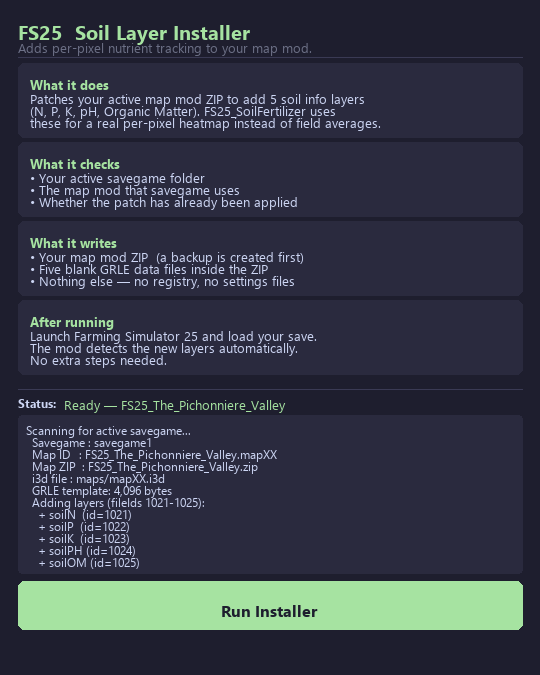
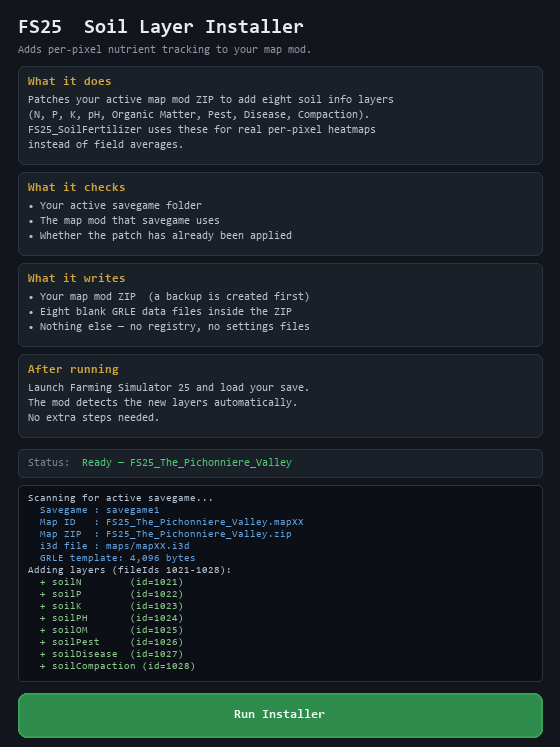
docs: update screenshot and README for 8-layer support
- Regenerate screenshot showing all 8 layers (added Pest, Disease, Compaction)
- Update layer table and all "five" references to "eight"
- Bump required SoilFertilizer version to v2.3.0+
- Update Supported Maps section: remove maps/data/ requirement, document fallback

diff --git a/gen_screenshot.py b/gen_screenshot.py
@@ -1,0 +1,149 @@
+"""Generate screenshot.png for FS25_SoilLayerInstaller README."""
+from PIL import Image, ImageDraw, ImageFont
+import os
+
+# ── Palette ───────────────────────────────────────────────────────────────────
+BG         = (18,  22,  28)
+PANEL_BG   = (26,  32,  40)
+BORDER     = (44,  52,  64)
+TITLE_CLR  = (230, 235, 245)
+SUB_CLR    = (140, 150, 165)
+HEAD_CLR   = (210, 165,  60)   # amber
+TEXT_CLR   = (185, 195, 210)
+STATUS_OK  = (80,  200, 120)
+STATUS_LBL = (120, 130, 145)
+LOG_CLR    = (140, 200, 140)
+LOG_KEY    = (100, 160, 220)
+BTN_BG     = (45,  140,  75)
+BTN_HOV    = (55,  160,  85)
+BTN_TXT    = (240, 250, 240)
+CONSOLE_BG = (12,  16,  22)
+
+W, H = 560, 780
+
+img  = Image.new("RGB", (W, H), BG)
+draw = ImageDraw.Draw(img)
+
+# ── Fonts ─────────────────────────────────────────────────────────────────────
+def font(size, bold=False):
+    candidates = [
+        "C:/Windows/Fonts/consola.ttf",
+        "C:/Windows/Fonts/cour.ttf",
+        "C:/Windows/Fonts/arial.ttf",
+    ]
+    if bold:
+        candidates = [
+            "C:/Windows/Fonts/consolab.ttf",
+            "C:/Windows/Fonts/courbd.ttf",
+            "C:/Windows/Fonts/arialbd.ttf",
+        ] + candidates
+    for p in candidates:
+        if os.path.exists(p):
+            try:
+                return ImageFont.truetype(p, size)
+            except Exception:
+                pass
+    return ImageFont.load_default()
+
+F_TITLE  = font(20, bold=True)
+F_SUB    = font(11)
+F_HEAD   = font(12, bold=True)
+F_BODY   = font(11)
+F_LOG    = font(10)
+F_BTN    = font(13, bold=True)
+F_STATUS = font(11)
+
+# ── Helpers ───────────────────────────────────────────────────────────────────
+def rrect(draw, xy, radius=6, fill=PANEL_BG, outline=BORDER, width=1):
+    x1, y1, x2, y2 = xy
+    draw.rounded_rectangle([x1, y1, x2, y2], radius=radius, fill=fill, outline=outline, width=width)
+
+def text(draw, pos, s, font, fill, anchor="la"):
+    draw.text(pos, s, font=font, fill=fill, anchor=anchor)
+
+# ── Title bar ─────────────────────────────────────────────────────────────────
+PAD = 18
+y = 18
+text(draw, (PAD, y),      "FS25  Soil Layer Installer", F_TITLE, TITLE_CLR)
+y += 26
+text(draw, (PAD, y),      "Adds per-pixel nutrient tracking to your map mod.", F_SUB, SUB_CLR)
+y += 22
+
+# ── Info panels ───────────────────────────────────────────────────────────────
+panels = [
+    ("What it does", [
+        "Patches your active map mod ZIP to add eight soil info layers",
+        "(N, P, K, pH, Organic Matter, Pest, Disease, Compaction).",
+        "FS25_SoilFertilizer uses these for real per-pixel heatmaps",
+        "instead of field averages.",
+    ]),
+    ("What it checks", [
+        "• Your active savegame folder",
+        "• The map mod that savegame uses",
+        "• Whether the patch has already been applied",
+    ]),
+    ("What it writes", [
+        "• Your map mod ZIP  (a backup is created first)",
+        "• Eight blank GRLE data files inside the ZIP",
+        "• Nothing else — no registry, no settings files",
+    ]),
+    ("After running", [
+        "Launch Farming Simulator 25 and load your save.",
+        "The mod detects the new layers automatically.",
+        "No extra steps needed.",
+    ]),
+]
+
+for head, lines in panels:
+    line_h = 15
+    ph = 14 + 18 + len(lines) * line_h + 6
+    rrect(draw, (PAD, y, W - PAD, y + ph))
+    text(draw, (PAD + 10, y + 10), head, F_HEAD, HEAD_CLR)
+    for i, ln in enumerate(lines):
+        text(draw, (PAD + 10, y + 28 + i * line_h), ln, F_BODY, TEXT_CLR)
+    y += ph + 8
+
+y += 4
+
+# ── Status bar ────────────────────────────────────────────────────────────────
+rrect(draw, (PAD, y, W - PAD, y + 28), radius=5, fill=PANEL_BG, outline=BORDER)
+text(draw, (PAD + 10, y + 8), "Status:", F_STATUS, STATUS_LBL)
+text(draw, (PAD + 64, y + 8), "Ready — FS25_The_Pichonniere_Valley", F_STATUS, STATUS_OK)
+y += 36
+
+# ── Console log ───────────────────────────────────────────────────────────────
+log_lines = [
+    ("plain", "Scanning for active savegame..."),
+    ("key",   "  Savegame : savegame1"),
+    ("key",   "  Map ID   : FS25_The_Pichonniere_Valley.mapXX"),
+    ("key",   "  Map ZIP  : FS25_The_Pichonniere_Valley.zip"),
+    ("key",   "  i3d file : maps/mapXX.i3d"),
+    ("key",   "  GRLE template: 4,096 bytes"),
+    ("plain", "Adding layers (fileIds 1021-1028):"),
+    ("ok",    "  + soilN        (id=1021)"),
+    ("ok",    "  + soilP        (id=1022)"),
+    ("ok",    "  + soilK        (id=1023)"),
+    ("ok",    "  + soilPH       (id=1024)"),
+    ("ok",    "  + soilOM       (id=1025)"),
+    ("ok",    "  + soilPest     (id=1026)"),
+    ("ok",    "  + soilDisease  (id=1027)"),
+    ("ok",    "  + soilCompaction (id=1028)"),
+]
+log_h = 12
+console_h = len(log_lines) * log_h + 16
+rrect(draw, (PAD, y, W - PAD, y + console_h), radius=5, fill=CONSOLE_BG, outline=BORDER)
+for i, (kind, ln) in enumerate(log_lines):
+    clr = LOG_KEY if kind == "key" else (LOG_CLR if kind == "ok" else TEXT_CLR)
+    text(draw, (PAD + 10, y + 8 + i * log_h), ln, F_LOG, clr)
+y += console_h + 12
+
+# ── Run button ────────────────────────────────────────────────────────────────
+bw, bh = W - 2 * PAD, 44
+rrect(draw, (PAD, y, PAD + bw, y + bh), radius=8, fill=BTN_BG, outline=BTN_HOV, width=2)
+text(draw, (PAD + bw // 2, y + bh // 2), "Run Installer", F_BTN, BTN_TXT, anchor="mm")
+y += bh + 10
+
+# ── Crop to content ───────────────────────────────────────────────────────────
+img = img.crop((0, 0, W, y))
+img.save("screenshot.png")
+print(f"screenshot.png written ({W}×{y})")

diff --git a/README.md b/README.md
@@ -4,7 +4,7 @@
 
 **One-click tool that unlocks the full soil map in FS25_SoilFertilizer**
 
-[![Requires](https://img.shields.io/badge/requires-FS25__SoilFertilizer_v2.2.6%2B-4caf50?style=for-the-badge)](https://github.com/TheCodingDad-TisonK/FS25_SoilFertilizer)
+[![Requires](https://img.shields.io/badge/requires-FS25__SoilFertilizer_v2.3.0%2B-4caf50?style=for-the-badge)](https://github.com/TheCodingDad-TisonK/FS25_SoilFertilizer)
 [![Platform](https://img.shields.io/badge/platform-Windows-0078d4?style=for-the-badge&logo=windows)]()
 [![License](https://img.shields.io/badge/license-CC%20BY--NC--ND%204.0-lightgrey?style=for-the-badge)](https://creativecommons.org/licenses/by-nc-nd/4.0/)
 
@@ -16,7 +16,7 @@
 
 By default, [FS25_SoilFertilizer](https://github.com/TheCodingDad-TisonK/FS25_SoilFertilizer) tracks one average nutrient value per field. Spray the left half of a field with nitrogen and the whole field shows the same number — because the game doesn't have individual pixel layers for soil nutrients until you add them.
 
-This tool patches your active map mod to add five density-map layers:
+This tool patches your active map mod to add eight density-map layers:
 
 | Layer | Tracks |
 |---|---|
@@ -25,6 +25,9 @@ This tool patches your active map mod to add five density-map layers:
 | `soilK` | Potassium |
 | `soilPH` | pH |
 | `soilOM` | Organic Matter |
+| `soilPest` | Pest pressure |
+| `soilDisease` | Disease pressure |
+| `soilCompaction` | Soil compaction |
 
 Once the patch is applied, the soil overlay map shows real per-pixel values — spray half a field and you'll see a visible left/right split on the map.
 
@@ -63,9 +66,9 @@ The installer finds your savegame and map automatically. No folder browsing requ
 
 1. Reads your active savegame to identify which map mod you're using
 2. Creates a backup of the map mod ZIP before touching anything
-3. Patches the map's `.i3d` file inside the ZIP — adds five `<File>` and `<InfoLayer>` entries
+3. Patches the map's `.i3d` file inside the ZIP — adds eight `<File>` and `<InfoLayer>` entries
 4. Copies a blank GRLE file (all zeros) as the starting data for each new layer
-5. Repacks the ZIP and verifies all five layers are present
+5. Repacks the ZIP and verifies all eight layers are present
 
 On next game load, the engine registers the new layers automatically. FS25_SoilFertilizer detects them and switches from field-average mode to per-pixel mode.
 
@@ -76,11 +79,11 @@ On next game load, the engine registers the new layers automatically. FS25_SoilF
 Any FS25 map mod that:
 - Ships as a single ZIP in the Mods folder
 - Has its main `.i3d` file at `maps/mapXX.i3d` inside the ZIP
-- Stores terrain data at `maps/data/` inside the ZIP
+- Contains at least one `.grle` file (used as the blank layer template)
 
-**Tested on:** The Pichonniere Valley (`FS25_The_Pichonniere_Valley`)
+The installer automatically searches for a GRLE template — maps that don't include `maps/data/` (e.g. Midwest Horizon RCR) are supported via a fallback scan of the full ZIP.
 
-Most standard FS25 maps follow this structure. Custom maps that deviate significantly may not be detected — open an issue if yours doesn't work.
+Custom maps that store the `.i3d` at a non-standard path may not be detected — open an issue if yours doesn't work.
 
 ---
 
